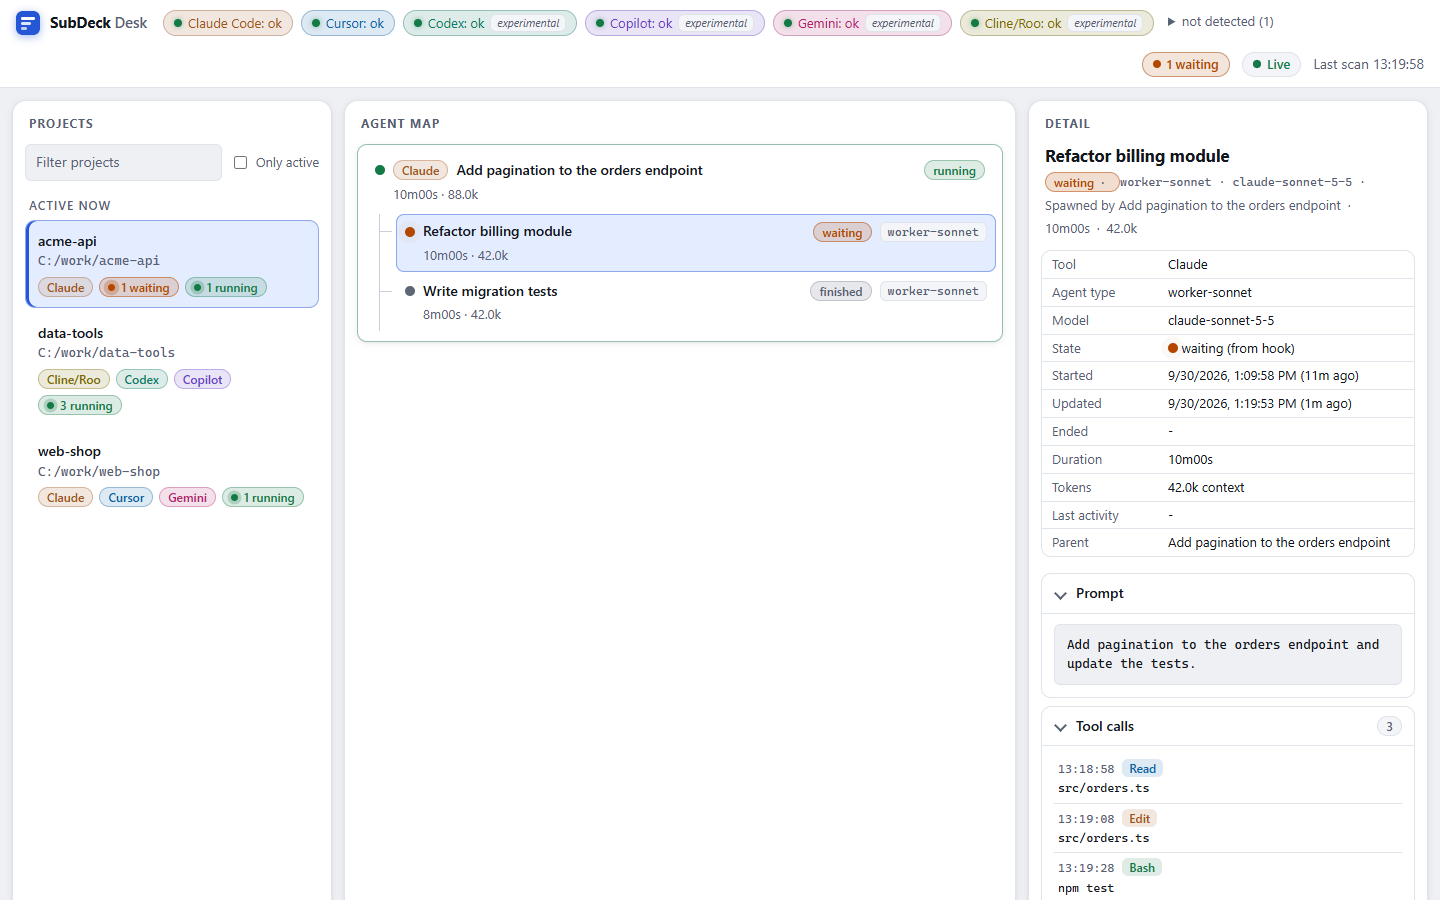
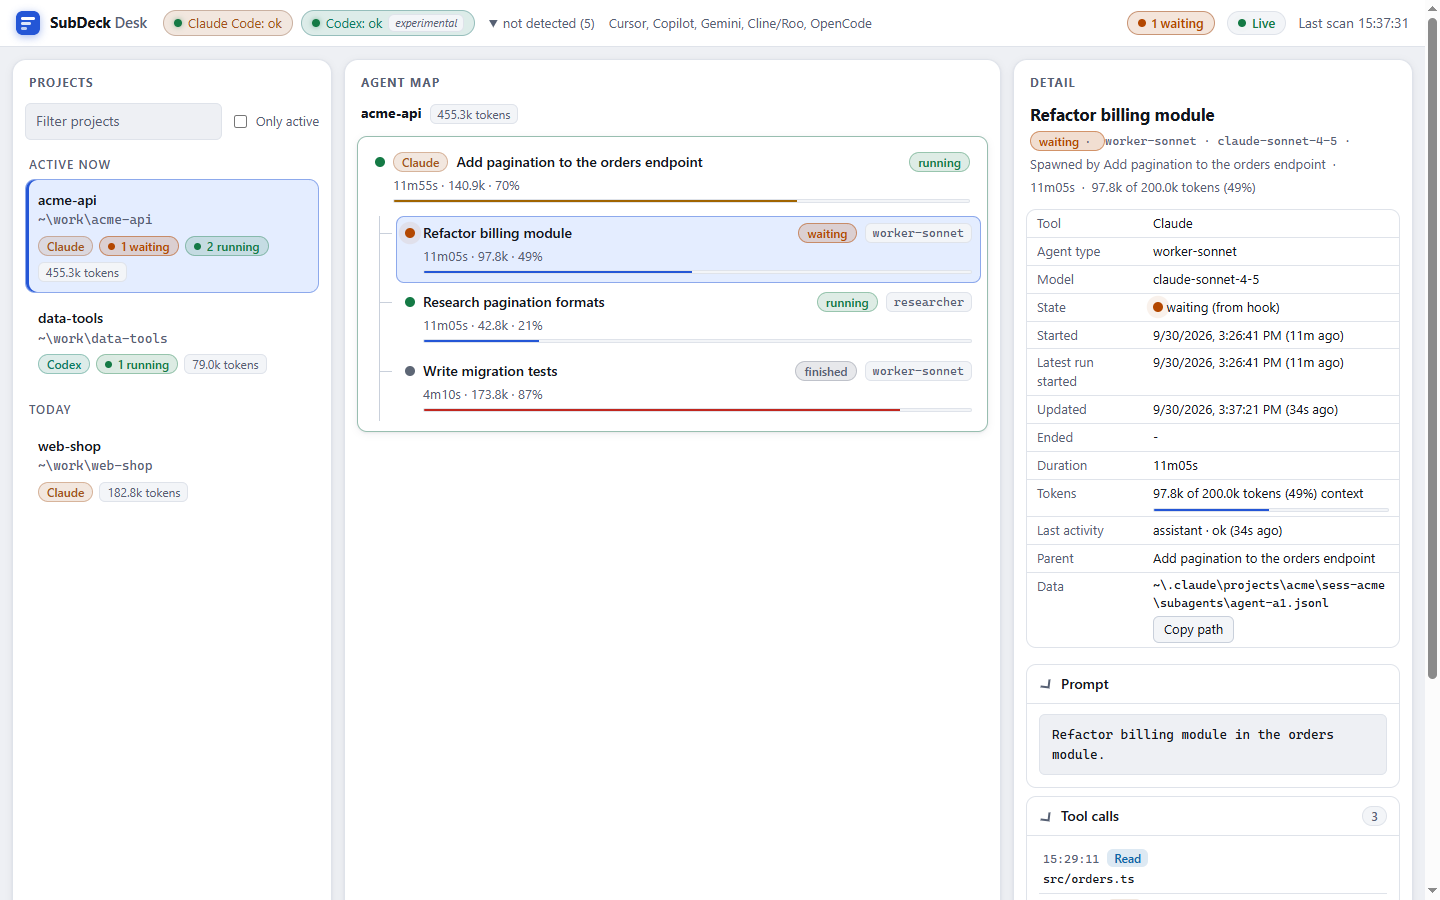
release 0.4.0: guard matcher includes PowerShell, version bump, docs, refreshed Desk screenshots

Changed region(s): [[0.2188, 0.0, 1.0, 1.0], [0.0, 0.0622, 0.2188, 0.5911]]

diff --git a/docs/USER_GUIDE.md b/docs/USER_GUIDE.md
@@ -18,7 +18,7 @@ SubDeck is a manager + sub-agents toolkit for Claude Code: rules, agents and ski
 claude plugin marketplace add emiirhandemirci/SubDeck && claude plugin install subdeck@subdeck
 ```
 
-Or run `./install.sh` (macOS, Linux, Git Bash) / `.\install.ps1` (Windows PowerShell) from a clone; the script installs, or updates if SubDeck is already installed. Inside a Claude Code terminal session you can use `/plugin marketplace add emiirhandemirci/SubDeck` and `/plugin install subdeck@subdeck`. The VS Code extension has no `/plugin`, so use the terminal CLI; the plugin is then active in the extension too. The repo is private, so you need GitHub access. Restart Claude Code afterwards.
+Or run `./install.sh` (macOS, Linux, Git Bash) / `.\install.ps1` (Windows PowerShell) from a clone; the script installs, or updates if SubDeck is already installed. Inside a Claude Code terminal session you can use `/plugin marketplace add emiirhandemirci/SubDeck` and `/plugin install subdeck@subdeck`. The VS Code extension has no `/plugin`, so use the terminal CLI; the plugin is then active in the extension too. Restart Claude Code afterwards.
 
 **Update:**
 
@@ -49,6 +49,8 @@ Add `.subdeck/` to your project's `.gitignore`; the hooks write agent events the
 | `/subdeck:status` | Prints the live table of running and recently finished sub-agents, including the real model id (MODEL column; on narrow terminals ACTIVITY is dropped first, then MODEL). `--all` shows more. | `/subdeck:status --all` |
 | `/subdeck:pr` | Pre-push checklist and approval gate. It never pushes by itself. | `/subdeck:pr release notes` |
 | `/subdeck:models` | Shows the model policy (which model each sub-agent role runs on, and where each value comes from), or changes it with `set` / `reset`. `--project` writes to this project only. | `/subdeck:models set worker=haiku verifier=opus` |
+| `/subdeck:notify` | Shows or changes desktop notifications (`on`, `off`, `test`, `sound on|off`, `events ...`). | `/subdeck:notify test` |
+| `/subdeck:guard` | Shows or changes the guard rules (`set`, `on`, `off`, `reset`). | `/subdeck:guard set push=off` |
 | `/subdeck:desk` | Starts Desk (or prints its URL if it is already running). | `/subdeck:desk` |
 | `/subdeck:desk stop` | Stops Desk. `status` prints the URL or says it is not running. | `/subdeck:desk stop` |
 
@@ -106,6 +108,10 @@ Each agent also shows where its state came from. "Estimated from file activity" 
 | `--no-content` | Disable the prompt / tool calls / final report endpoint. |
 | `--open` | Open the browser after starting. |
 
+**Context usage.** Each session and agent row has a thin bar: the last known context tokens divided by the model's window. Claude models are measured against 200k; 1M is assumed only when the model id has a `[1m]` marker or the context already exceeds 200k. Other tools have no known window, so Desk shows just the token count. The bar is neutral below 60%, amber from 60 to 85%, red above 85%, and the percentage is always printed. Each project shows the total tokens of its sessions and agents in the retention window. These are tokens, not cost, and the totals are approximate (per-session context can overlap across turns). Tools that report no usage show nothing.
+
+**Paths.** Desk never shows your home directory: paths in the project list, tooltips and the session "Data" row start with `~`. "Copy path" still copies the full real path.
+
 **Stop.** `/subdeck:desk stop`.
 
 Example view (agent detail with Prompt, Tool calls and Final report expanded; synthetic data):
@@ -157,13 +163,46 @@ Optional: instead of using the `*-current` agents, you can remap the aliases so 
 
 Note: the agent prompts were tuned on Claude. Behaviour on other models is untested.
 
-## 8. Privacy
+## 8. Notifications
+
+SubDeck shows a local desktop notification (plus a system sound) when Claude needs your input (permission prompts, questions, idle) and when the manager finishes its turn. Sub-agent completion is available but off by default. Nothing leaves your machine; the notification shows only the project folder name and a short reason, never prompt content.
+
+```
+/subdeck:notify                       # show settings
+/subdeck:notify on | off | test
+/subdeck:notify sound on|off
+/subdeck:notify events waiting,done,agent
+```
+
+Add `--project` to write the project config instead of the user config (project wins). Set the environment variable `SUBDECK_NOTIFY=0` to silence everything. Config: `{"notify":{"enabled":true,"sound":true,"events":["waiting","done"]}}` in `~/.subdeck/config.json` or `<project>/.subdeck/config.json`. Windows uses a toast (balloon fallback), macOS `osascript`, Linux `notify-send` if installed. On Windows, Focus Assist / Do Not Disturb can hide toasts; if `test` shows nothing, check those settings.
+
+## 9. Guard rules
+
+SubDeck ships a deterministic PreToolUse hook. It makes no model call and adds about 0.1 s per tool call. It checks Bash, PowerShell, Write, Edit and MultiEdit calls against these rules:
+
+| Rule | Default | Blocks |
+|---|---|---|
+| `git-add-all` | deny | `git add -A/--all/-u/.`, `git commit -a` |
+| `force-push` | deny | `git push --force`, `-f`, `--force-with-lease`, `+refspec` |
+| `push` | ask | any other `git push` |
+| `history-rewrite` | ask | `git reset --hard`, `rebase`, `filter-branch/filter-repo`, `clean -f` |
+| `rm-rf-danger` | deny | recursive delete of `/`, a drive root, `~`/`$HOME`, the project root or their parents |
+| `secret-files` | ask | Write/Edit of `.env*` (not `.env.example`), `*.pem`, `*.key`, `id_rsa*`, `id_ed25519*`, `credentials*.json` |
+| `attribution` | off | `git commit` messages containing `Co-Authored-By` or "Generated with" |
+
+- `/subdeck:guard` shows the effective rules.
+- `/subdeck:guard set push=off attribution=deny [--project]`, `on`, `off` and `reset [--project]` change them. They write the `guard` key of `~/.subdeck/config.json` or `<project>/.subdeck/config.json`; the project file wins.
+- `SUBDECK_GUARD=0` disables the guard for a session.
+- In auto mode, "ask" acts as "deny": an auto-mode agent can never push with the default rules.
+- It is a guard rail, not a sandbox. Aliases, scripts and other interpreters can get around it.
+
+## 10. Privacy
 
 - Local only: Desk binds `127.0.0.1` and rejects requests with a foreign `Host` header.
 - Prompt, tool calls and final report are read from your local transcript only when you open an agent. They are never stored, cached or logged; tool output and thinking text are never served.
 - Start with `--no-content` to turn content reading off completely.
 
-## 9. Troubleshooting
+## 11. Troubleshooting
 
 **Desk says it is already running.** Only one instance runs at a time. Open the printed URL, or run `/subdeck:desk stop` and start again.
 
@@ -177,6 +216,6 @@ Note: the agent prompts were tuned on Claude. Behaviour on other models is untes
 
 **States look wrong for projects without the plugin.** In projects where the plugin is installed, hooks record exact start and stop events. Without it, Desk falls back to session files and file activity, so states are estimates and can lag by a few minutes.
 
-## 10. Where to learn more
+## 12. Where to learn more
 
 - [desk/README.md](../desk/README.md) for Desk internals, data sources and environment overrides.

diff --git a/README.md b/README.md
@@ -7,7 +7,7 @@
 [![GitHub](https://img.shields.io/badge/GitHub-emiirhandemirci-181717?logo=github&logoColor=white)](https://github.com/emiirhandemirci)
 [![LinkedIn](https://img.shields.io/badge/LinkedIn-Emirhan_Demirci-0A66C2?logo=linkedin&logoColor=white)](https://www.linkedin.com/in/emirhan-demirci-/)
 
-![version](https://img.shields.io/badge/version-0.3.1-6366f1)
+![version](https://img.shields.io/badge/version-0.4.0-6366f1)
 ![node](https://img.shields.io/badge/node-%E2%89%A5%2022.13-339933?logo=nodedotjs&logoColor=white)
 ![plugin](https://img.shields.io/badge/Claude_Code-plugin-d97757)
 ![deps](https://img.shields.io/badge/dependencies-zero-22c55e)
@@ -42,6 +42,11 @@ Restart Claude Code, then try `/subdeck:status` or `/subdeck:desk`.
   <tr>
     <td valign="top">🖥<br><b>SubDeck Desk</b><br>Local web dashboard for Claude Code, Cursor, Codex, Copilot, Gemini, Cline/Roo and OpenCode sessions. Read-only, <code>127.0.0.1</code> only.</td>
     <td valign="top">🚦<br><b>Push gate</b><br>Pre-push checklist that asks first. It never pushes by itself. <code>/subdeck:pr</code></td>
+    <td valign="top">🔔<br><b>Notifications</b><br>Local desktop notification and sound when Claude needs you or finishes. <code>/subdeck:notify</code></td>
+  </tr>
+  <tr>
+    <td valign="top">🛡<br><b>Guard rules</b><br>Deterministic hook: blocks <code>git add -A</code>, force push, dangerous <code>rm -rf</code>, secret files. <code>/subdeck:guard</code></td>
+    <td valign="top">📊<br><b>Context usage</b><br>Desk shows how full each session's context is, and token totals per project.</td>
     <td valign="top">🪶<br><b>Zero dependencies</b><br>Bash and awk for the plugin, plain Node for Desk. No jq, no npm install.</td>
   </tr>
 </table>
@@ -55,7 +60,7 @@ Restart Claude Code, then try `/subdeck:status` or `/subdeck:desk`.
   </picture>
 </p>
 
-Projects on the left, the agent tree in the middle, details on the right. Start it with `/subdeck:desk` or `node desk/server.mjs`. Claude Code and Cursor are supported; Codex, Copilot (CLI and VS Code Chat), Gemini CLI, Cline/Roo and OpenCode are **experimental** (marked in the header). Sessions that are blocked on you (permission prompt, question, plan approval) show as **waiting** and sort first. Details in [desk/README.md](desk/README.md).
+Projects on the left, the agent tree in the middle, details on the right. Start it with `/subdeck:desk` or `node desk/server.mjs`. Claude Code and Cursor are supported; Codex, Copilot (CLI and VS Code Chat), Gemini CLI, Cline/Roo and OpenCode are **experimental** (marked in the header). Sessions that are blocked on you (permission prompt, question, plan approval) show as **waiting** and sort first. Each session shows a context-usage bar and each project its token total (tokens, not cost); paths use `~`. Details in [desk/README.md](desk/README.md).
 
 <details>
 <summary><b>Agent detail</b>: prompt, tool calls, final report</summary>
@@ -111,6 +116,8 @@ flowchart LR
 | `/subdeck:status` | Live agent table with the real model id per agent (`--all` includes finished agents). |
 | `/subdeck:desk` | Starts (or prints the URL of) Desk; `stop` stops it. |
 | `/subdeck:pr` | Pre-push checklist and approval gate. |
+| `/subdeck:notify` | Desktop notifications: `on`, `off`, `test`, `sound`, `events`. |
+| `/subdeck:guard` | Shows or changes the guard rules (`set push=off`, `reset`). |
 | `/subdeck:models` | Shows or changes which model each sub-agent role uses (`/subdeck:models set worker=haiku`). |
 
 <details>
@@ -133,14 +140,14 @@ Check the manifests with `claude plugin validate .` and `claude plugin validate 
 <summary><b>Components and requirements</b></summary>
 
 - Agents: `worker-sonnet` (default), `worker-opus` (critical work only), `researcher` (read-only), `verifier` (no commits), plus `*-current` variants that inherit the session model.
-- Hooks: `SubagentStart` / `SubagentStop` write events to `<project>/.subdeck/`.
+- Hooks: `SubagentStart` / `SubagentStop` write events to `<project>/.subdeck/`; `Stop` / `Notification` send desktop notifications; `PreToolUse` runs the guard.
 - Scripts: event logger, `status.sh` (bash + awk), `run-hook.cmd` (Windows/POSIX launcher). Templates: `CLAUDE.local.md.template`, `decision.md.template`.
 - Requirements: Bash and awk (Git Bash on Windows), Claude Code with plugin support, git. Desk needs Node 22.13 or newer.
 </details>
 
 ## Status
 
-v0.1 (agents, hooks, status renderer, skills, templates) is implemented and was run end to end. Desk v0.3 (monitoring only, seven tools, waiting state) is implemented. Roadmap and decision records live in `internal/design.md` and `internal/decisions/` (private, maintainers only).
+v0.1 (agents, hooks, status renderer, skills, templates) is implemented and was run end to end. v0.4 adds notifications, guard rules and the Desk context-usage bar. Roadmap and decision records live in `internal/design.md` and `internal/decisions/` (private, maintainers only).
 
 ## License
 
